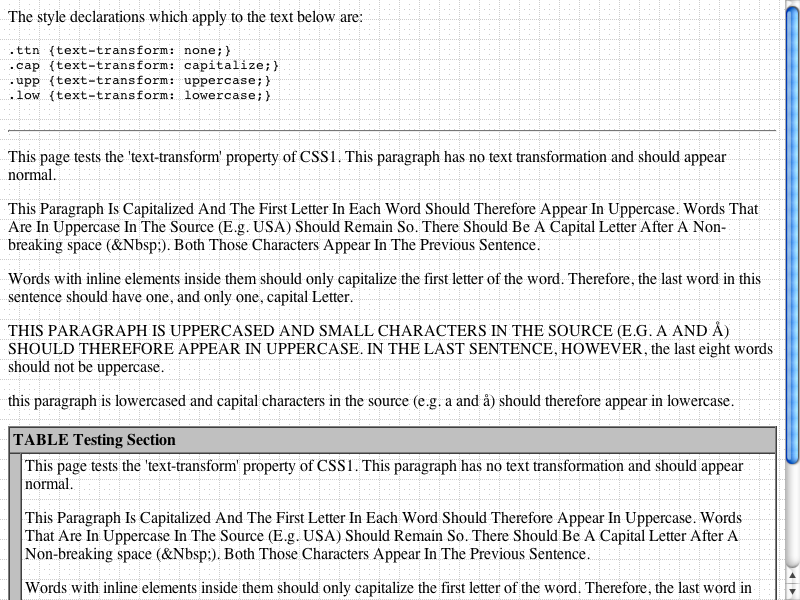
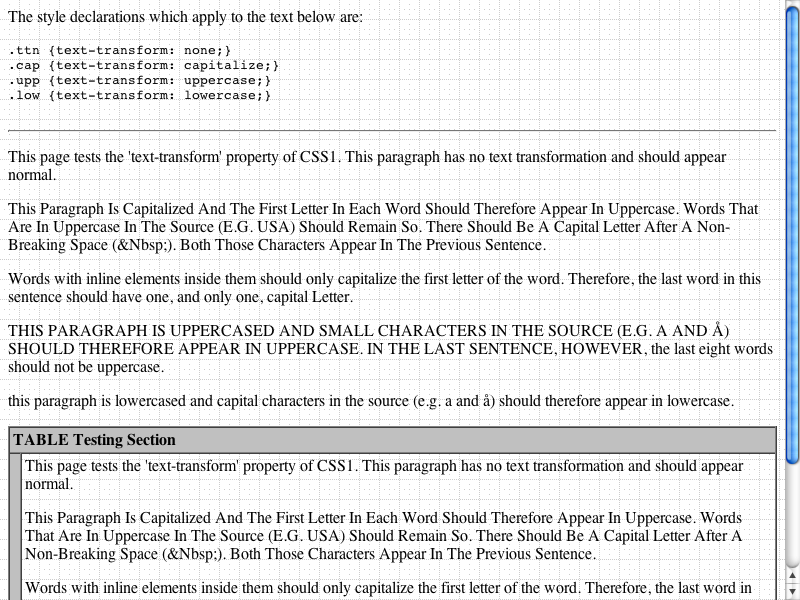
Reviewed by Maciej
Fix for http://bugzilla.opendarwin.org/show_bug.cgi?id=4171
        This patch changes the word-break algorithm used to apply text-
        transform:capitalize to use a UBreakIterator. This fixes some 
        existing edge cases we have in our text-transform:capitalize 
        support and generally makes our results more consistent.

git-svn-id: https://svn.webkit.org/repository/webkit/trunk@13300 268f45cc-cd09-0410-ab3c-d52691b4dbfc

Changed region(s): [[0.0625, 0.87, 0.9375, 0.96], [0.0, 0.36, 0.9062, 0.42]]

diff --git a/WebCore/platform/StringImpl.cpp b/WebCore/platform/StringImpl.cpp
@@ -31,6 +31,7 @@
 #include "Length.h"
 #include <kxmlcore/Assertions.h>
 #include <string.h>
+#include <unicode/ubrk.h>
 
 using namespace KXMLCore;
 
@@ -373,33 +374,56 @@ StringImpl* StringImpl::upper() const
     return c;
 }
 
-StringImpl* StringImpl::capitalize(bool runOnString) const
+static UBreakIterator* getWordBreakIterator(const QChar* string, int length)
 {
-    StringImpl* c = new StringImpl;
-    bool haveCapped = runOnString;
-    if(!l) return c;
+    // The locale is currently ignored when determining character cluster breaks.
+    // This may change in the future, according to Deborah Goldsmith.
+    static bool createdIterator = false;
+    static UBreakIterator* iterator;
+    UErrorCode status;
+    if (!createdIterator) {
+        status = U_ZERO_ERROR;
+        iterator = ubrk_open(UBRK_WORD, "en_us", 0, 0, &status);
+        createdIterator = true;
+    }
+    if (!iterator)
+        return 0;
 
-    c->s = newQCharVector(l);
-    c->l = l;
+    status = U_ZERO_ERROR;
+    ubrk_setText(iterator, reinterpret_cast<const UChar*>(string), length, &status);
+    if (status != U_ZERO_ERROR)
+        return 0;
 
-    if ( l ) c->s[0] = s[0].upper();
+    return iterator;
+}
+
+StringImpl* StringImpl::capitalize(QChar previous) const
+{
+    StringImpl* capitalizedString = new StringImpl;
+    if(!l) return capitalizedString;
     
-    // This patch takes care of a lot of the text_transform: capitalize problems, particularly
-    // with the apostrophe. But it is just a temporary fix until we implement UBreakIterator as a 
-    // way to determine when to break for words.
-    for (unsigned int i = 0; i < l; i++) {
-        if (haveCapped) {
-            if (s[i].isSpace()) 
-                haveCapped = false;
-            c->s[i] = s[i];
-        } else if (s[i].isLetterOrNumber()) {
-            c->s[i] = s[i].upper();
-            haveCapped = true;
-        } else 
-            c->s[i] = s[i];
+    QChar* stringWithPrevious = newQCharVector(l + 1);
+    stringWithPrevious[0] = previous;
+    for (unsigned i = 1; i < l + 1; i++)
+        stringWithPrevious[i] = s[i - 1];
+    
+    UBreakIterator* boundary = getWordBreakIterator(stringWithPrevious, l + 1);
+    if (!boundary)
+        return capitalizedString;
+    
+    capitalizedString->s = newQCharVector(l);
+    capitalizedString->l = l;
+    
+    int32_t end;
+    int32_t start = ubrk_first(boundary);
+    for (end = ubrk_next(boundary); end != UBRK_DONE; start = end, end = ubrk_next(boundary)) {
+        if (start != 0)
+            capitalizedString->s[start - 1] = stringWithPrevious[start].upper();
+        for (int i = start; i < end; i++)
+            capitalizedString->s[i] = stringWithPrevious[i + 1];
     }
     
-    return c;
+    return capitalizedString;
 }
 
 int StringImpl::toInt(bool* ok) const

diff --git a/WebCore/rendering/RenderText.cpp b/WebCore/rendering/RenderText.cpp
@@ -881,16 +881,14 @@ void RenderText::setText(DOMStringImpl *text, bool force)
                 {
                     // find previous text renderer if one exists
                     RenderObject* o;
-                    bool runOnString = false;
+                    QChar previous = ' ';
                     for (o = previousRenderer(); o && o->isInlineFlow(); o = o->previousRenderer())
                         ;
                     if (o && o->isText()) {
                         DOMStringImpl* prevStr = static_cast<RenderText*>(o)->string();
-                        QChar c = (*prevStr)[prevStr->length() - 1];
-                        if (!c.isSpace())
-                            runOnString = true;
+                        previous = (*prevStr)[prevStr->length() - 1];
                     }
-                    str = str->capitalize(runOnString);
+                    str = str->capitalize(previous);
                 }
                     break;
                 case UPPERCASE:  str = str->upper();       break;

diff --git a/WebCore/platform/StringImpl.h b/WebCore/platform/StringImpl.h
@@ -90,7 +90,7 @@ public:
     bool isLower() const;
     StringImpl* lower() const;
     StringImpl* upper() const;
-    StringImpl* capitalize(bool runOnString) const;
+    StringImpl* capitalize(QChar previous) const;
 
     int find(const char*, int index = 0, bool caseSensitive = true) const;
     int find(QChar, int index = 0) const;
